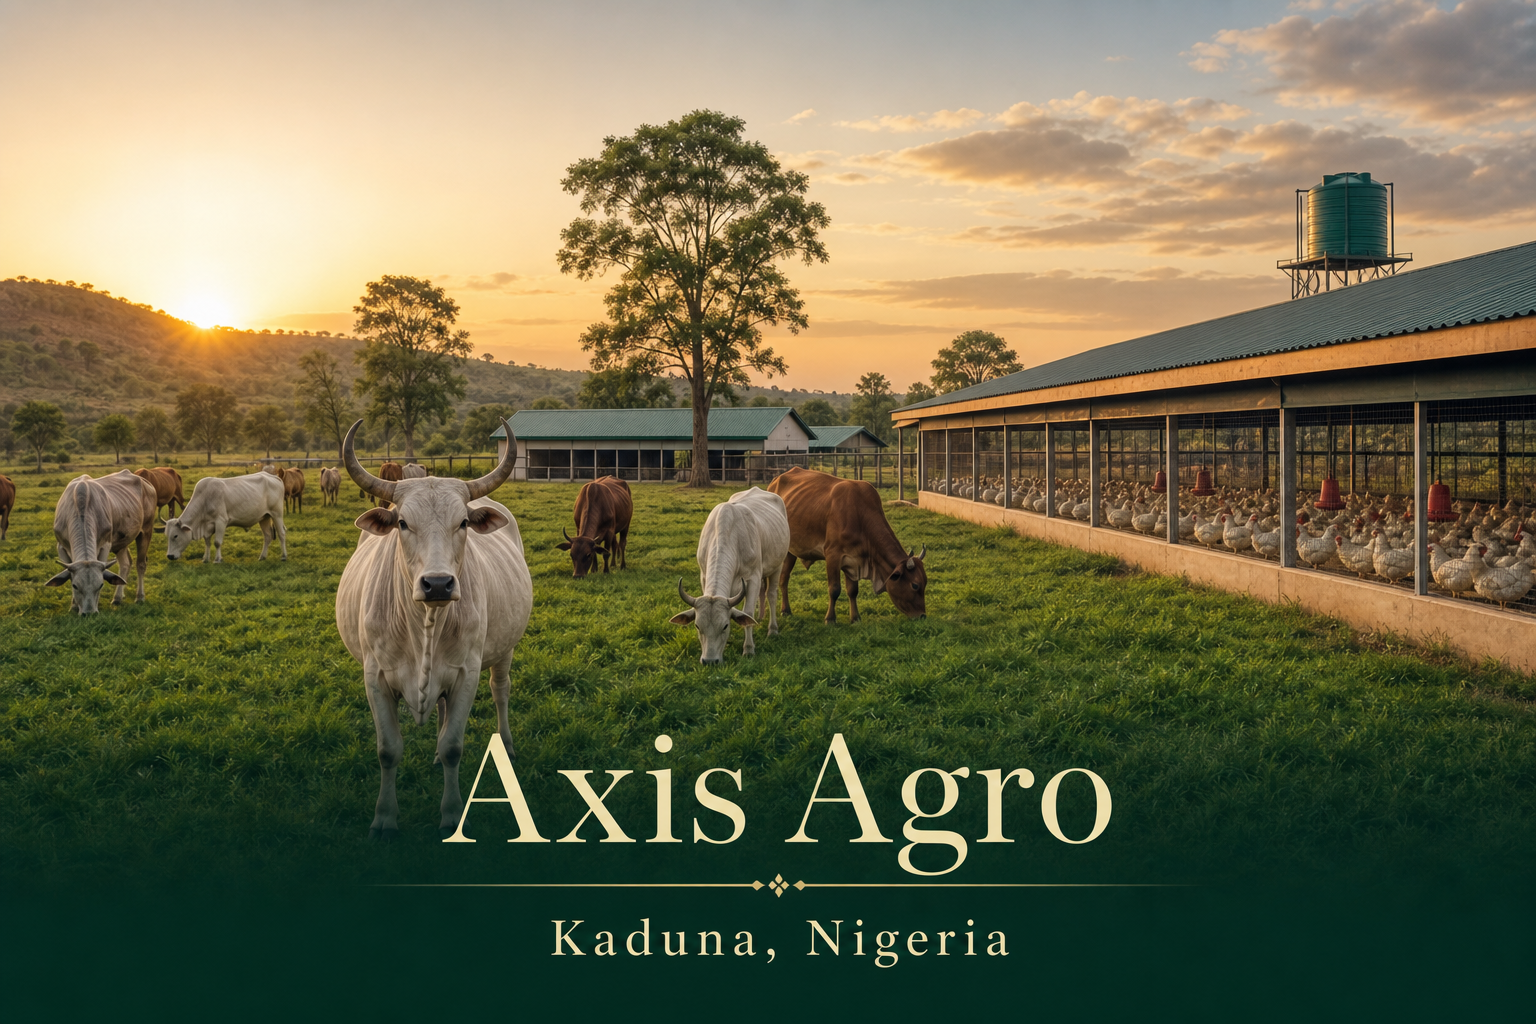
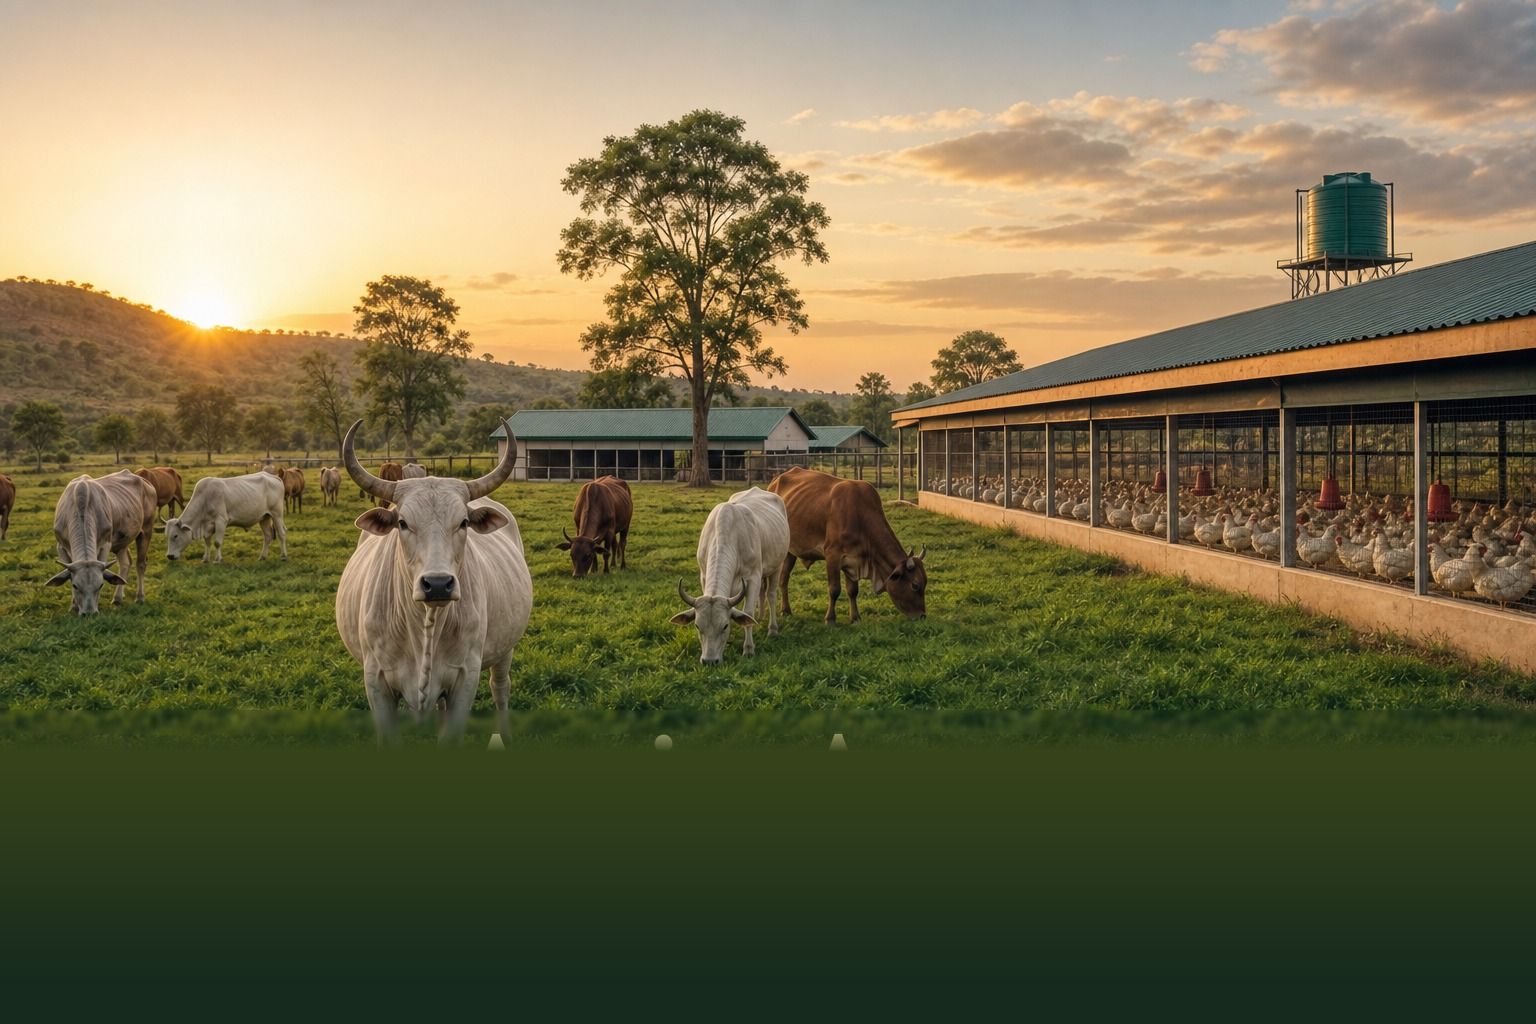
feat: refresh header branding and center hero tag search
Replace remaining Axis Agro assets, enlarge the nav logo with a clearer bar treatment, and place a larger tag lookup in the hero flow.

Changed region(s): [[0.0, 0.7188, 1.0, 0.9375]]

diff --git a/components/home/HeroAnimalSearch.tsx b/components/home/HeroAnimalSearch.tsx
@@ -2,7 +2,6 @@
 
 import { Loader2, Search, X } from "lucide-react";
 import Image from "next/image";
-import Link from "next/link";
 import { useEffect, useId, useRef, useState } from "react";
 
 import { Badge } from "@/components/ui/badge";
@@ -103,21 +102,26 @@ export function HeroAnimalSearch({ className }: { className?: string }) {
     <>
       <div
         className={cn(
-          "w-full max-w-md rounded-card border border-white/20 bg-white/95 p-3 shadow-[0_8px_30px_rgba(0,0,0,0.18)] backdrop-blur-sm sm:p-4",
+          "mx-auto w-full max-w-xl rounded-card border border-white/25 bg-white/95 p-4 text-left shadow-[0_12px_40px_rgba(0,0,0,0.22)] backdrop-blur-md sm:p-5 md:max-w-2xl md:p-6",
           className
         )}
       >
-        <form onSubmit={handleSearch} className="space-y-2" noValidate>
-          <Label
-            htmlFor={inputId}
-            className="font-label text-[11px] font-semibold uppercase tracking-wider text-navy/70"
-          >
-            Find by tag number
-          </Label>
-          <div className="flex gap-2">
+        <form onSubmit={handleSearch} className="space-y-3" noValidate>
+          <div className="space-y-1">
+            <Label
+              htmlFor={inputId}
+              className="font-label text-xs font-semibold uppercase tracking-[0.14em] text-navy/75"
+            >
+              Find by tag number
+            </Label>
+            <p className="text-sm text-muted">
+              Look up active livestock by unique farm tag.
+            </p>
+          </div>
+          <div className="flex flex-col gap-3 sm:flex-row sm:items-stretch">
             <div className="relative min-w-0 flex-1">
               <Search
-                className="pointer-events-none absolute top-1/2 left-3 h-4 w-4 -translate-y-1/2 text-muted"
+                className="pointer-events-none absolute top-1/2 left-4 h-5 w-5 -translate-y-1/2 text-muted"
                 aria-hidden="true"
               />
               <Input
@@ -135,20 +139,20 @@ export function HeroAnimalSearch({ className }: { className?: string }) {
                 spellCheck={false}
                 aria-invalid={Boolean(error)}
                 aria-describedby={error ? errorId : undefined}
-                className="h-11 min-h-11 border-divider bg-white pl-9 text-body-text"
+                className="h-14 min-h-14 border-divider bg-white pl-12 text-base font-medium tracking-wide text-body-text shadow-sm placeholder:font-normal placeholder:tracking-normal sm:text-[1.0625rem]"
               />
             </div>
             <Button
               type="submit"
               variant="primary"
-              size="md"
+              size="lg"
               disabled={isSearching}
-              className="shrink-0 px-4"
+              className="h-14 min-h-14 shrink-0 px-8 text-base sm:w-auto"
             >
               {isSearching ? (
                 <>
                   <Loader2
-                    className="h-4 w-4 animate-spin"
+                    className="h-5 w-5 animate-spin"
                     aria-hidden="true"
                   />
                   <span className="sr-only">Searching</span>
@@ -167,11 +171,7 @@ export function HeroAnimalSearch({ className }: { className?: string }) {
             >
               {error}
             </p>
-          ) : (
-            <p className="text-xs text-muted">
-              Look up active livestock by unique farm tag.
-            </p>
-          )}
+          ) : null}
         </form>
       </div>
 

diff --git a/components/layout/Header.tsx b/components/layout/Header.tsx
@@ -50,38 +50,39 @@ export function Header() {
     <>
       <header
         className={cn(
-          "sticky top-0 z-40 bg-white/95 backdrop-blur-sm transition-[box-shadow,border-color] duration-200",
-          isScrolled && "border-b border-divider shadow-sm"
+          "sticky top-0 z-40 border-b border-divider/80 bg-cream/80 backdrop-blur-md transition-[background-color,box-shadow,border-color] duration-200",
+          "supports-[backdrop-filter]:bg-cream/70",
+          isScrolled && "border-divider bg-cream/90 shadow-[0_1px_0_rgba(27,46,60,0.04),0_8px_24px_rgba(27,46,60,0.06)]"
         )}
       >
         <nav
-          className="mx-auto flex h-16 max-w-7xl items-center justify-between gap-3 px-4 sm:h-[4.5rem] sm:gap-4 sm:px-6 lg:px-8"
+          className="mx-auto flex h-[4.25rem] max-w-7xl items-center justify-between gap-3 px-4 sm:h-[5rem] sm:gap-5 sm:px-6 lg:px-8"
           aria-label="Primary"
         >
           <Link
             href="/"
-            className="flex h-full max-w-[55%] shrink-0 items-center sm:max-w-[40%] lg:max-w-none"
+            className="flex h-full max-w-[58%] shrink-0 items-center py-2 sm:max-w-[44%] lg:max-w-none"
             aria-label={`${SITE_NAME} home`}
           >
             {!logoError ? (
               <Image
                 src={SITE_LOGO_PATH}
                 alt={`${SITE_NAME} — quality livestock farm in Kaduna, Nigeria`}
-                width={200}
-                height={64}
+                width={280}
+                height={88}
                 priority
-                className="h-10 w-auto max-w-[148px] object-contain object-left sm:h-11 sm:max-w-[168px] lg:h-12 lg:max-w-[200px]"
-                sizes="(max-width: 640px) 148px, (max-width: 1024px) 168px, 200px"
+                className="h-12 w-auto max-w-[176px] object-contain object-left sm:h-14 sm:max-w-[220px] lg:h-[3.75rem] lg:max-w-[260px]"
+                sizes="(max-width: 640px) 176px, (max-width: 1024px) 220px, 260px"
                 onError={() => setLogoError(true)}
               />
             ) : (
-              <span className="font-display text-lg font-bold leading-tight text-navy sm:text-xl">
+              <span className="font-display text-xl font-bold leading-tight text-navy sm:text-2xl">
                 {SITE_NAME}
               </span>
             )}
           </Link>
 
-          <div className="hidden items-center gap-1 xl:flex">
+          <div className="hidden items-center gap-0.5 xl:flex">
             {PUBLIC_NAV_LINKS.map((link) => {
               const active = isActive(pathname, link.href);
 
@@ -90,10 +91,10 @@ export function Header() {
                   key={link.href}
                   href={link.href}
                   className={cn(
-                    "rounded-btn px-3 py-2 font-label text-[13px] font-semibold tracking-wide transition-colors duration-200",
+                    "rounded-btn px-3.5 py-2.5 font-label text-[13px] font-semibold tracking-wide transition-colors duration-200",
                     active
                       ? "bg-forest/10 text-forest"
-                      : "text-navy hover:bg-cream hover:text-forest"
+                      : "text-navy hover:bg-white/70 hover:text-forest"
                   )}
                 >
                   {link.label}
@@ -117,7 +118,7 @@ export function Header() {
               aria-label="Open menu"
               aria-expanded={isMobileMenuOpen}
               aria-controls="mobile-navigation"
-              className="flex min-h-11 min-w-11 items-center justify-center rounded-btn text-navy transition-colors duration-200 hover:bg-cream hover:text-forest xl:hidden"
+              className="flex min-h-11 min-w-11 items-center justify-center rounded-btn text-navy transition-colors duration-200 hover:bg-white/70 hover:text-forest xl:hidden"
               onClick={() => setIsMobileMenuOpen(true)}
             >
               <Menu className="h-5 w-5 sm:h-6 sm:w-6" aria-hidden="true" />

diff --git a/components/home/HeroSection.tsx b/components/home/HeroSection.tsx
@@ -12,14 +12,14 @@ export function HeroSection({
   imageUrl = "/hero-farm.jpg",
 }: HeroSectionProps) {
   return (
-    <section className="relative min-h-[480px] w-full overflow-hidden sm:min-h-[520px] md:min-h-[640px] md:h-[88vh]">
+    <section className="relative min-h-[560px] w-full overflow-hidden sm:min-h-[600px] md:min-h-[680px] md:h-[88vh]">
       <Image
         src={imageUrl}
         alt="Cattle and poultry grazing at JRN Agro LTD livestock farm in Kaduna, Nigeria"
         fill
         priority
         loading="eager"
-        className="object-cover"
+        className="object-cover object-center"
         sizes="100vw"
       />
 
@@ -27,26 +27,26 @@ export function HeroSection({
         className="absolute inset-0"
         style={{
           background:
-            "linear-gradient(to top, rgba(27,46,60,0.88) 0%, rgba(27,46,60,0.45) 55%, transparent 100%)",
+            "linear-gradient(to top, rgba(27,46,60,0.92) 0%, rgba(27,46,60,0.55) 42%, rgba(27,46,60,0.22) 68%, transparent 100%)",
         }}
       />
 
-      <div className="relative z-10 flex h-full flex-col justify-end px-5 pb-10 pt-24 sm:px-8 sm:pb-12 md:pb-20 md:pl-20 md:pr-10">
+      <div className="relative z-10 mx-auto flex h-full max-w-4xl flex-col items-center justify-end px-5 pb-12 pt-28 text-center sm:px-8 sm:pb-14 md:pb-20 md:pt-32">
         <Eyebrow color="gold">Kaduna, Nigeria</Eyebrow>
 
-        <h1 className="mt-3 max-w-[700px] font-display text-[2rem] font-bold leading-[1.1] text-white sm:text-[2.375rem] md:text-[3.75rem]">
+        <h1 className="mt-3 max-w-[18ch] font-display text-[2rem] font-bold leading-[1.1] text-white sm:max-w-none sm:text-[2.5rem] md:text-[3.75rem]">
           Quality Livestock. Built on Trust.
         </h1>
 
-        <p className="mt-4 max-w-[580px] text-sm font-normal leading-relaxed text-white/85 sm:mt-5 sm:text-base md:text-lg">
+        <p className="mt-4 max-w-[36rem] text-sm font-normal leading-relaxed text-white/85 sm:mt-5 sm:text-base md:text-lg">
           JRN Agro Limited is Kaduna&apos;s mixed livestock and poultry farm —
           specialising in healthy breeding stock, quality meat production, and
           artificial insemination services.
         </p>
 
-        <HeroAnimalSearch className="mt-6 sm:mt-8" />
+        <HeroAnimalSearch className="mt-7 w-full sm:mt-8" />
 
-        <div className="mt-5 flex w-full max-w-md flex-col gap-3 sm:mt-6 sm:max-w-none sm:flex-row sm:flex-wrap">
+        <div className="mt-5 flex w-full max-w-lg flex-col items-stretch justify-center gap-3 sm:mt-6 sm:max-w-none sm:flex-row sm:flex-wrap">
           <Button
             href="/get-a-quote"
             variant="primary"